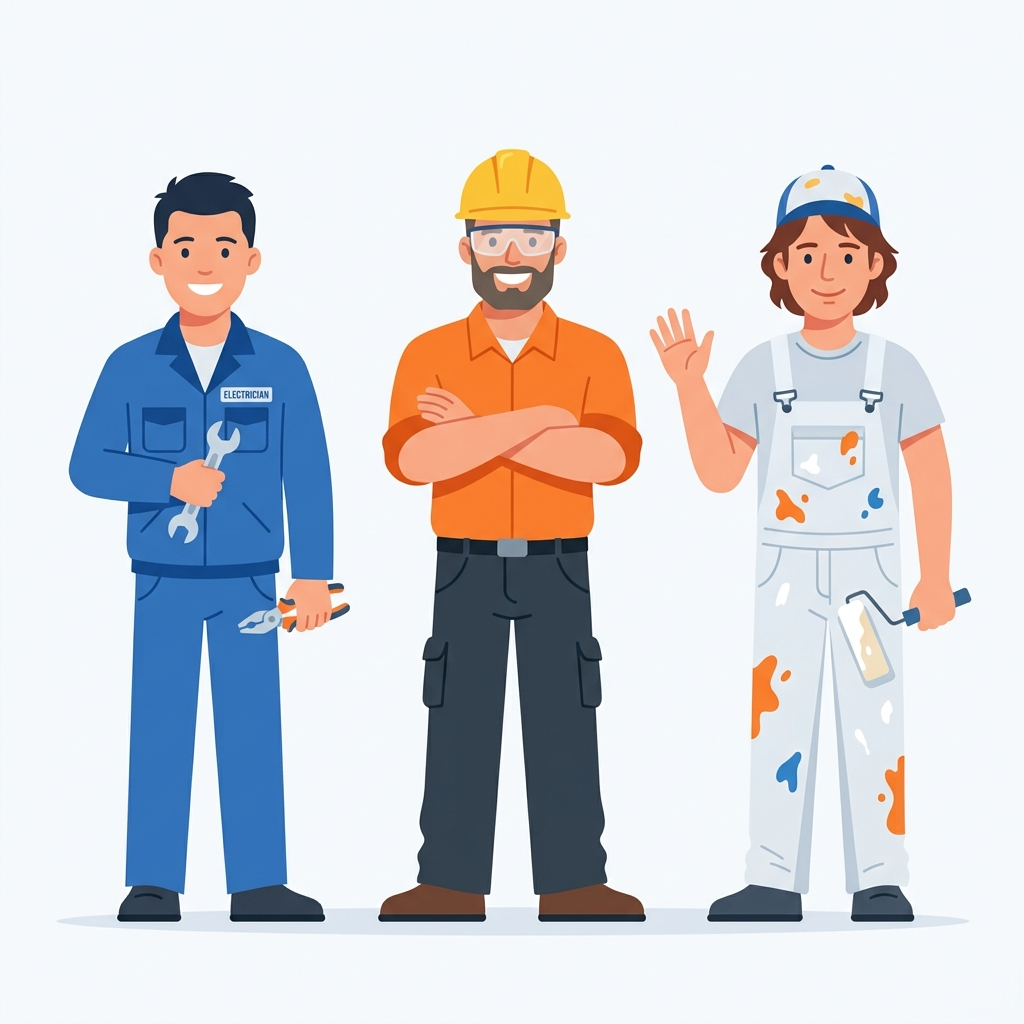
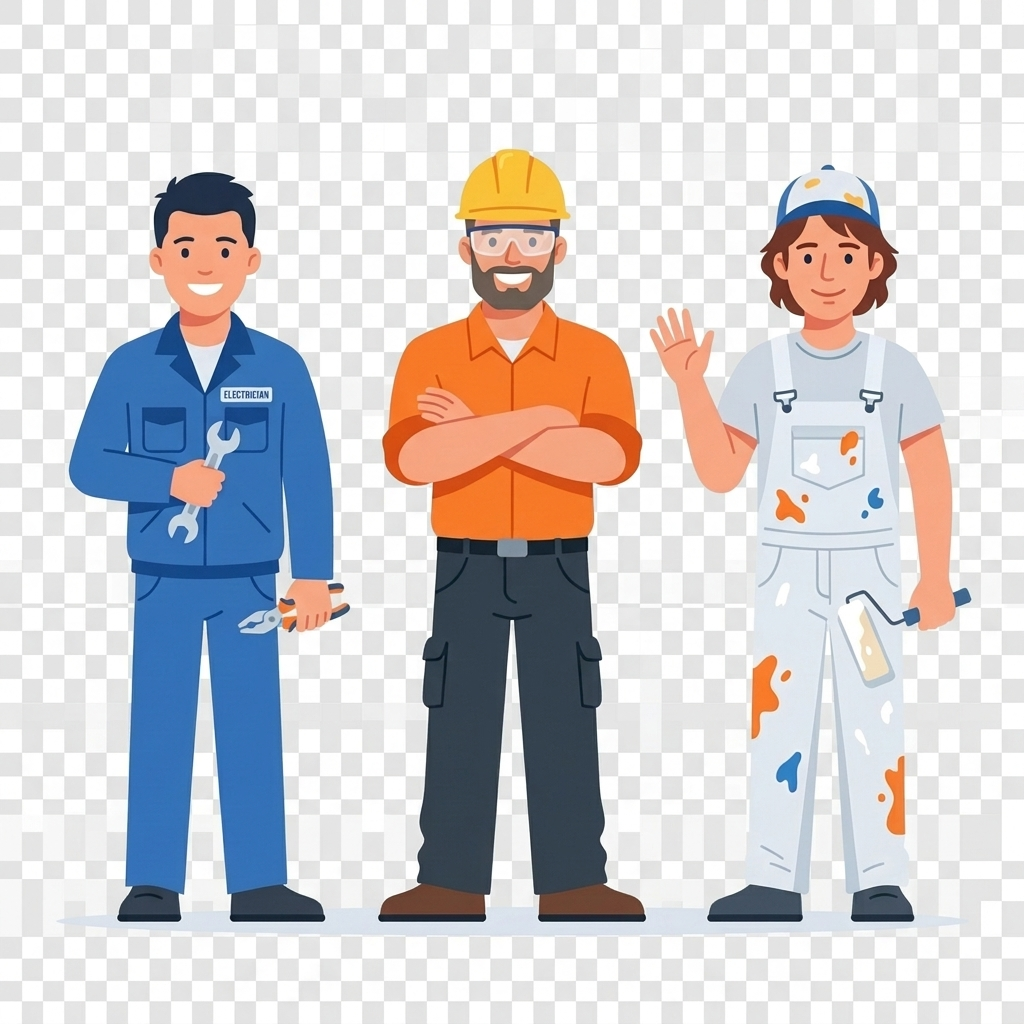
feat: make Malayalam title phrase keep in one line, delete default next/vercel assets, and remove illustration backgrounds

diff --git a/src/features/search/components/hero-search.tsx b/src/features/search/components/hero-search.tsx
@@ -107,7 +107,7 @@ export function MobileHeroSearch({
             </h1>
           ) : (
             <h1 className="text-[26px] font-extrabold text-slate-900 tracking-tighter leading-[1.2]">
-              അടുത്തുള്ള <span className="text-primary">തൊഴിലാളികളെ</span> കണ്ടെത്തൂ
+              <span className="whitespace-nowrap">അടുത്തുള്ള <span className="text-primary">തൊഴിലാളികളെ</span></span> കണ്ടെത്തൂ
             </h1>
           )}
           <p className="mt-2 text-[13px] text-gray-500 font-medium leading-relaxed">
@@ -327,7 +327,7 @@ export function DesktopHeroSearch({
             </h1>
           ) : (
             <h1 className="text-3xl sm:text-[2.75rem] font-extrabold text-slate-900 tracking-tighter leading-[1.2] flex flex-wrap items-center">
-              അടുത്തുള്ള <span className="text-primary mx-1 sm:mx-2">തൊഴിലാളികളെ</span> കണ്ടെത്തൂ
+              <span className="whitespace-nowrap">അടുത്തുള്ള <span className="text-primary mx-1 sm:mx-2">തൊഴിലാളികളെ</span></span> കണ്ടെത്തൂ
               <span className="inline-flex items-center justify-center ml-2 w-8 h-8 sm:w-10 sm:h-10 rounded-full bg-primary/10 text-primary shadow-sm border border-primary/20">
                 <MapPin className="h-4 w-4 sm:h-5 sm:w-5" />
               </span>
